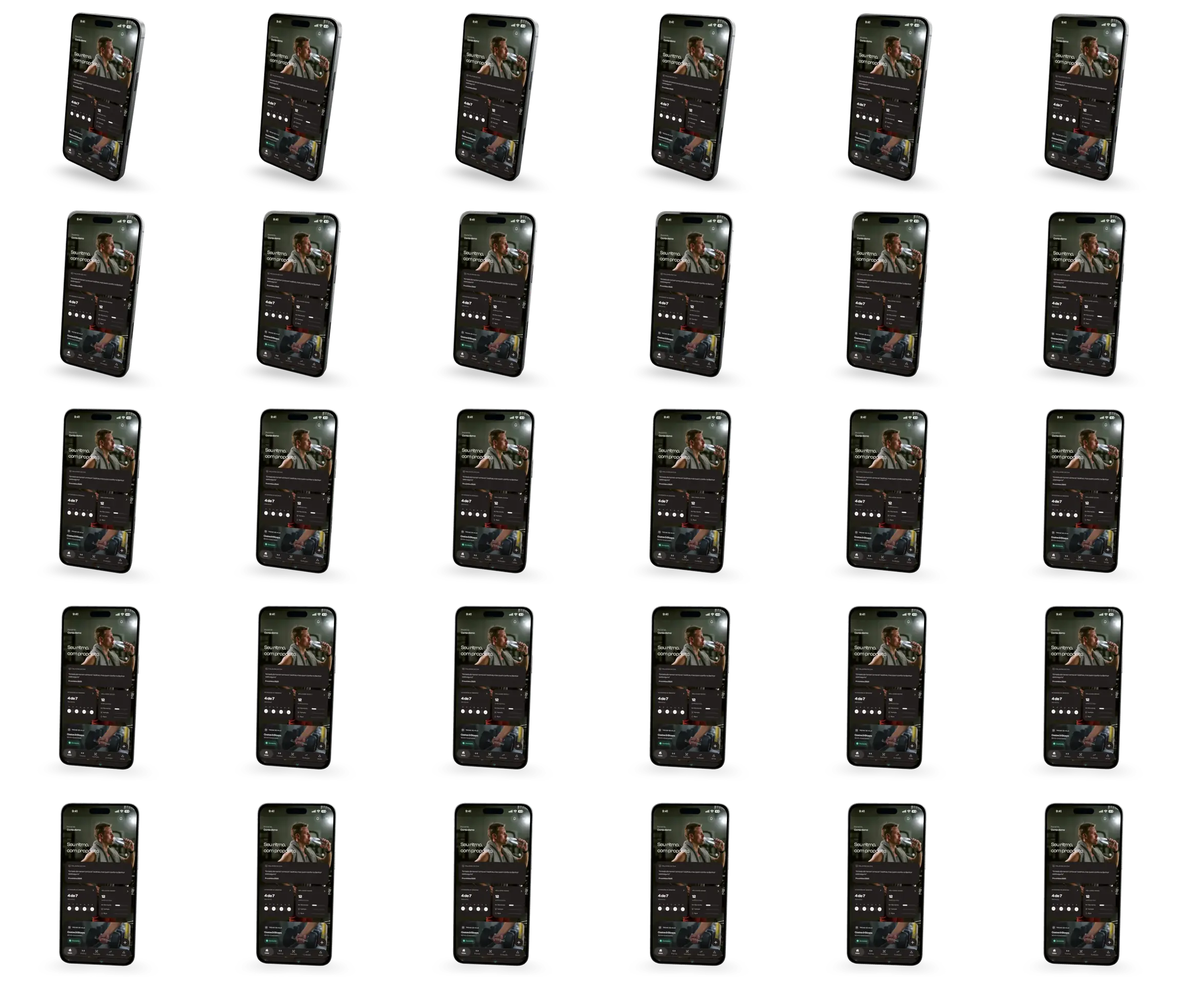
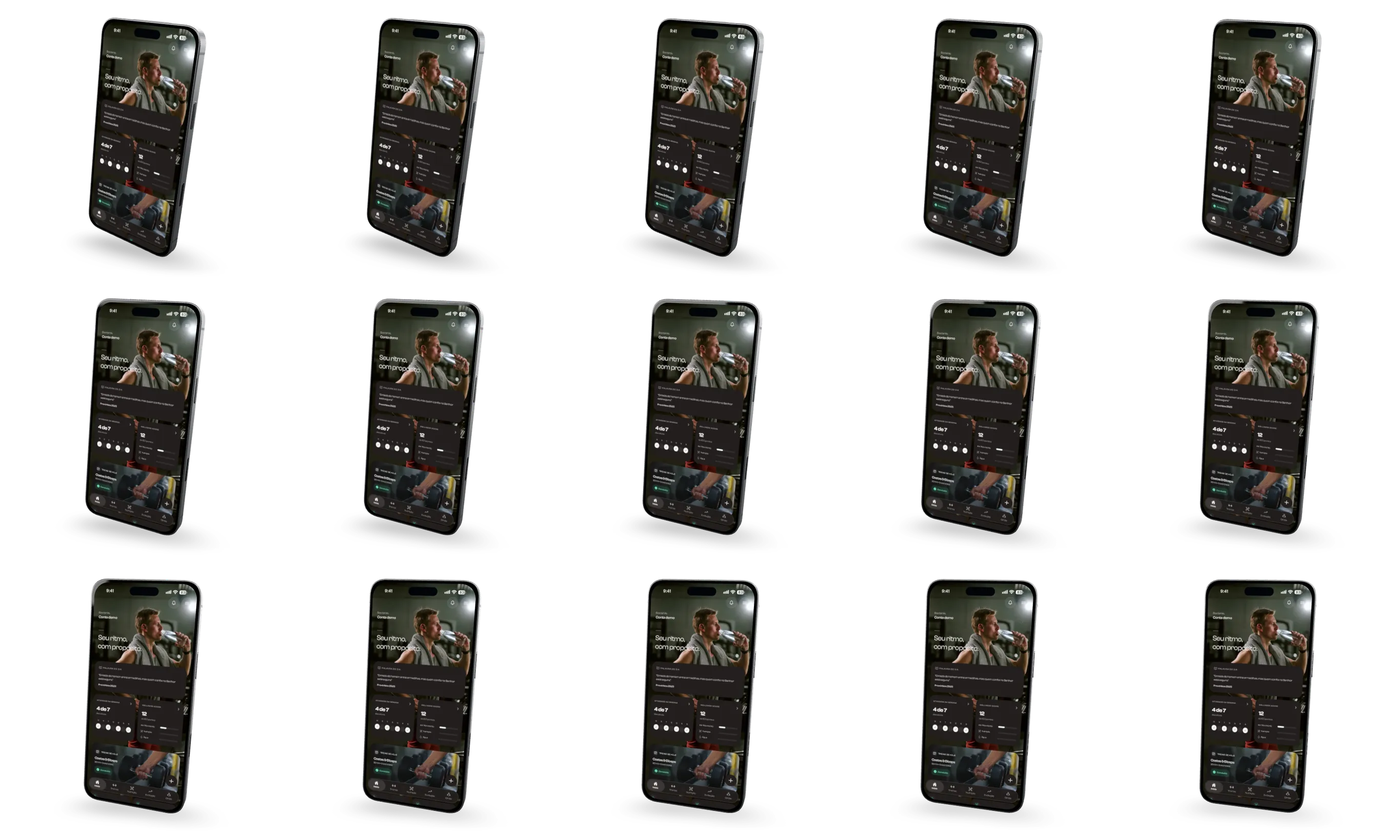
Sharpen the MOVVA opening and reduce startup transfers

diff --git a/site.css b/site.css
@@ -4,7 +4,7 @@
 .experience{position:relative}.stage{position:relative}.scene{position:relative;min-height:780px;padding:140px var(--gutter) 100px;display:flex;align-items:center;justify-content:space-between;gap:45px;isolation:isolate;overflow:clip}.copy{max-width:600px}.eyebrow{font-size:9px;font-weight:500;letter-spacing:.2em;line-height:1.5;margin:0 0 35px;display:flex;align-items:center;gap:13px}.eyebrow>span{width:25px;height:1px;background:currentColor;opacity:.7}h1,h2{font-weight:400;margin:0;letter-spacing:-.065em;line-height:.99}h1{font-size:clamp(64px,7.2vw,112px)}.scene h2{font-size:clamp(60px,6.8vw,100px)}.description{font-size:clamp(14px,1.12vw,17px);line-height:1.85;color:var(--muted);margin:34px 0 0;letter-spacing:-.03em}.text-link{display:inline-flex;align-items:center;justify-content:space-between;gap:38px;border-bottom:1px solid currentColor;font-size:12px;padding:13px 0 16px;margin-top:34px}.text-link>span{font-size:23px;transition:transform .2s}.text-link:hover>span{transform:translate(3px,-3px)}.small-thought{display:flex;align-items:center;gap:17px;margin-top:56px}.spark{font-size:35px;font-weight:300}.small-thought p{font-size:11px;line-height:1.65;color:var(--muted)}.static-shot{width:240px;border:8px solid #22261f;border-radius:34px;box-shadow:12px 22px 35px #25262024}.scene-training{background:#252b23;color:#f3efe5}.scene-training .description,.scene-training .micro-note{color:#c4c9bd}.scene-nutrition{background:#eee5d5}.scene-evolution{background:#e1e8da}.scene-circle{background:#e9e3d8}.centered{justify-content:center;text-align:center;min-height:550px}.centered .eyebrow{justify-content:center}.centered .copy{max-width:840px}.centered h2{font-size:clamp(62px,7vw,108px)}.pillars{display:flex;flex-wrap:wrap;gap:16px;margin-top:35px;font-size:12px;color:var(--muted)}.pillars span+span:before{content:'·';margin-right:16px}.modality-list{display:flex;flex-wrap:wrap;gap:12px 22px;max-width:430px;margin-top:30px;font-size:12px}.micro-note{font-size:9px;line-height:1.65;color:var(--muted);margin:28px 0 0}.nutrition-readout{max-width:325px;margin-top:35px}.nutrition-readout>div:first-child{display:flex;align-items:baseline;gap:14px}.nutrition-readout strong{font-size:46px;font-weight:400;letter-spacing:-.05em;font-variant-numeric:tabular-nums}.nutrition-readout span{font-size:11px;color:var(--muted)}.water-track{height:3px;background:#292e2620;margin-top:14px}.water-track i{display:block;height:100%;width:37%;background:#8c967d}.score-readout{display:flex;align-items:center;gap:23px;margin-top:28px}.score-ring{position:relative;width:102px;height:102px;flex:0 0 102px}.score-ring svg{position:absolute;inset:0;width:100%;transform:rotate(-90deg)}.score-ring circle{fill:none;stroke-width:3}.ring-base{stroke:#71836730}.ring-progress{stroke:#63745a;stroke-linecap:round;stroke-dasharray:289.026;stroke-dashoffset:138.73}.score-ring>div{position:absolute;inset:0;display:flex;align-items:baseline;justify-content:center;padding-top:28px;gap:2px}.score-ring strong{font-size:33px;line-height:1.25;font-weight:400;letter-spacing:-.06em;font-variant-numeric:tabular-nums}.score-ring small{font-size:10px}.score-caption{display:flex;flex-direction:column;gap:7px}.score-caption>strong{font-size:13px;font-weight:500}.score-caption>span{font-size:11px;color:var(--muted)}.score-caption>small{font-size:9px;color:var(--muted)}.circle-count{display:flex;gap:21px;align-items:center;margin-top:35px}.circle-count>span{font-size:58px;letter-spacing:-.05em;line-height:1}.circle-count>p{font-size:12px;line-height:1.65;color:var(--muted)}
 #world,.ambient,.halo,.ground-shadow,.ghost-word,.chapter-bar{display:none}
 /* Only activate the pinned presentation after a real WebGL scene is ready. */
-.enhanced .header{position:fixed;transition:color .35s}.enhanced .experience{height:820svh}.enhanced .stage{position:sticky;top:0;height:var(--svh);min-height:620px;overflow:hidden}.enhanced .ambient{display:block;position:absolute;inset:0;background:radial-gradient(ellipse at 82% 39%,#dcd4c055,transparent 48%);pointer-events:none}.enhanced .scene{position:absolute;inset:0;min-height:0;padding:0 var(--gutter);gap:0;display:flex;align-items:center;opacity:0;visibility:hidden;pointer-events:none;background:transparent;z-index:5;overflow:visible}.enhanced .scene .copy{pointer-events:none;width:46%;max-width:630px;padding-top:50px}.enhanced .scene a{pointer-events:auto}.enhanced .scene.right{justify-content:flex-end}.enhanced .scene-hero .copy{width:53%;max-width:750px}.enhanced .scene.right .copy{width:46%}.enhanced .scene-connected .copy{width:43%}.enhanced .static-shot{display:none}.enhanced #world{display:block;position:absolute;inset:0;width:100%;height:100%;z-index:3;pointer-events:none}.enhanced .scene.centered .copy{width:100%;max-width:920px;transform:translateY(-60px)}.enhanced .halo{display:block;position:absolute;top:48%;left:74%;width:min(66vw,1060px);aspect-ratio:1;transform:translate(-50%,-50%);z-index:1;pointer-events:none;opacity:.44}.halo i{position:absolute;inset:0;border:1px solid #74756128;border-radius:50%}.halo i:nth-child(2){inset:5%}.halo i:nth-child(3){inset:11%}.enhanced .ghost-word{display:block;position:absolute;bottom:-4vw;left:-2vw;right:0;font-size:32vw;font-weight:450;letter-spacing:-.09em;line-height:.8;color:#bcbca019;pointer-events:none;z-index:1}.enhanced .ground-shadow{display:block;position:absolute;top:85%;left:74%;width:31%;height:6%;transform:translate(-50%,-50%);background:radial-gradient(ellipse,#484b3833,transparent 67%);filter:blur(10px);pointer-events:none;z-index:2}.enhanced .chapter-bar{display:flex;justify-content:space-between;align-items:center;position:absolute;bottom:29px;left:var(--gutter);right:var(--gutter);z-index:10;font-size:9px;letter-spacing:.13em;gap:15px}.chapter-current{display:flex;align-items:center;gap:15px;min-width:235px}.chapter-current>span:first-child{font-size:13px;letter-spacing:0}.chapter-current i{height:1px;width:65px;background:currentColor;opacity:.5}.chapter-current>span:last-child{font-size:8px}.chapter-dots{display:flex;align-items:center;gap:4px}.chapter-dots a{width:32px;height:32px;display:flex;align-items:center;justify-content:center}.chapter-dots a:after{content:'';width:5px;height:5px;border-radius:50%;background:currentColor;opacity:.28}.chapter-dots a[aria-current]:after{opacity:1;transform:scale(1.3)}.scroll-label{display:flex;align-items:center;gap:22px;min-width:235px;justify-content:flex-end;font-size:8px}.scroll-label>span{font-size:23px;letter-spacing:0}.stage.dark{color:#f2eee4}.stage.dark .description,.stage.dark .micro-note{color:#c4c9bd}.stage.dark .halo{opacity:.08}.stage.dark .ghost-word{color:#ebe7d912}.stage.dark .eyebrow{color:#f2eee4}
+.enhanced .header{position:fixed;transition:color .35s}.enhanced .experience{height:820svh}.enhanced .stage{position:sticky;top:0;height:var(--svh);min-height:620px;overflow:hidden}.enhanced .ambient{display:block;position:absolute;inset:0;background:radial-gradient(ellipse at 82% 39%,#dcd4c055,transparent 48%);pointer-events:none}.enhanced .scene{position:absolute;inset:0;min-height:0;padding:0 var(--gutter);gap:0;display:flex;align-items:center;opacity:0;visibility:hidden;pointer-events:none;background:transparent;z-index:5;overflow:visible}.enhanced .scene .copy{pointer-events:none;width:46%;max-width:630px;padding-top:50px}.enhanced .scene a{pointer-events:auto}.enhanced .scene.right{justify-content:flex-end}.enhanced .scene-hero .copy{width:53%;max-width:750px}.enhanced .scene.right .copy{width:46%}.enhanced .scene-connected .copy{width:43%}.enhanced .static-shot{display:none}.enhanced #world{display:block;position:absolute;inset:0;width:100%;height:100%;z-index:3;pointer-events:none}.enhanced .scene.centered .copy{width:100%;max-width:920px;transform:translateY(-60px)}.enhanced .halo{display:block;position:absolute;top:48%;left:74%;width:min(66vw,1060px);aspect-ratio:1;transform:translate(-50%,-50%);z-index:1;pointer-events:none;opacity:.44}.halo i{position:absolute;inset:0;border:1px solid #74756128;border-radius:50%}.halo i:nth-child(2){inset:5%}.halo i:nth-child(3){inset:11%}.enhanced .ghost-word{display:block;position:absolute;bottom:-4vw;left:-2vw;right:0;font-size:32vw;font-weight:450;letter-spacing:-.09em;line-height:.8;color:#bcbca019;pointer-events:none;z-index:1}.enhanced .ground-shadow{display:block;position:absolute;top:85%;left:74%;width:31%;height:6%;transform:translate(-50%,-50%);background:radial-gradient(ellipse,#484b3833,transparent 67%);filter:blur(10px);pointer-events:none;z-index:2}.enhanced .chapter-bar{display:flex;justify-content:space-between;align-items:center;position:absolute;bottom:29px;left:var(--gutter);right:var(--gutter);z-index:10;font-size:9px;letter-spacing:.13em;gap:15px}.chapter-current{display:flex;align-items:center;gap:15px;min-width:235px}.chapter-current>span:first-child{font-size:13px;letter-spacing:0}.chapter-current i{height:1px;width:65px;background:currentColor;opacity:.5}.chapter-current>span:last-child{font-size:8px}.chapter-dots{display:flex;align-items:center;gap:4px}.chapter-dots a{width:32px;height:32px;display:flex;align-items:center;justify-content:center}.chapter-dots a:after{content:'';width:5px;height:5px;border-radius:50%;background:currentColor;opacity:.58}.chapter-dots a[aria-current]:after{opacity:1;transform:scale(1.3)}.scroll-label{display:flex;align-items:center;gap:22px;min-width:235px;justify-content:flex-end;font-size:8px}.scroll-label>span{font-size:23px;letter-spacing:0}.stage.dark{color:#f2eee4}.stage.dark .description,.stage.dark .micro-note{color:#c4c9bd}.stage.dark .halo{opacity:.08}.stage.dark .ghost-word{color:#ebe7d912}.stage.dark .eyebrow{color:#f2eee4}
 .overview{padding:125px var(--gutter) 115px;background:#faf8f2;position:relative;z-index:6}.overview-heading{display:grid;grid-template-columns:1fr 1fr;gap:15px 60px;align-items:end}.overview-heading>.eyebrow{grid-column:1/-1;margin-bottom:25px}.overview h2{font-size:clamp(60px,6vw,96px)}.overview-heading>p:last-child{max-width:410px;font-size:16px;line-height:1.8;color:var(--muted);justify-self:end}.overview-grid{display:grid;grid-template-columns:repeat(4,1fr);gap:30px;margin-top:80px}.overview-grid article{border-top:1px solid #c4c7bb;padding-top:21px}.overview-grid article>span{font-family:var(--serif);font-style:italic;font-size:26px;color:#858b7b}.overview h3{font-size:22px;letter-spacing:-.04em;font-weight:400;margin:25px 0 12px}.overview-grid p{font-size:13px;line-height:1.8;color:var(--muted);max-width:250px;min-height:76px}.overview-grid a{display:flex;align-items:center;justify-content:space-between;font-size:11px;padding-top:15px}.overview-grid a>span{font-size:19px}.launch{text-align:center;padding:125px var(--gutter) 90px;background:radial-gradient(ellipse at 50% 110%,#d9d1bb,transparent 60%),#ebe7db;position:relative;z-index:6}.launch .eyebrow{justify-content:center;margin-bottom:34px}.launch h2{font-size:clamp(70px,9vw,140px)}.launch-actions{display:flex;justify-content:center;align-items:center;gap:27px;margin-top:42px}.launch-status{font-size:12px;display:flex;align-items:center;gap:10px}.launch-status i{width:6px;height:6px;background:#7d8a6c;border-radius:50%}.dark-button{display:flex;align-items:center;gap:28px;background:var(--ink);color:#f8f5ec;padding:18px 23px;border-radius:40px;font-size:12px}.dark-button>span{font-size:19px}.launch-note{font-size:10px;line-height:1.8;color:var(--muted);margin-top:30px}.replay{display:inline-flex;gap:14px;margin-top:35px;font-size:11px}footer{display:flex;align-items:center;justify-content:space-between;gap:30px;padding:38px var(--gutter);background:#f4f1e8;border-top:1px solid #cccec1;position:relative;z-index:6}footer>div{display:flex;gap:24px;font-size:11px}footer>small{font-size:9px;color:var(--muted)}footer .brand img{width:135px}footer .brand>span{font-size:6px}.legal{max-width:780px;min-height:75svh;margin:auto;padding:165px 25px 100px}.legal h1{font-size:60px;margin:20px 0 38px}.legal h2{font-size:23px;letter-spacing:-.025em;margin:30px 0 14px}.legal p{font-size:15px;line-height:1.9;color:var(--muted)}.legal a{text-decoration:underline;text-underline-offset:4px}
 @media(min-width:1700px){.enhanced .scene .copy{padding-top:20px}.small-thought{margin-top:65px}}
 @media(max-width:1100px) and (min-width:761px){.header nav{gap:20px}.brand>span{display:none}.enhanced .scene-hero .copy{width:55%}h1{font-size:76px}.scene h2{font-size:65px}.description{font-size:14px}.small-thought{margin-top:30px}.eyebrow{margin-bottom:27px}.overview-grid{gap:20px}.chapter-current,.scroll-label{min-width:190px}.chapter-dots a{width:25px}.score-readout{gap:15px}}

diff --git a/index.html b/index.html
@@ -67,8 +67,8 @@
 <div class="ground-shadow" aria-hidden="true"></div>
 <div class="hero-device-slot" aria-hidden="true"></div>
 <div class="hero-surface" aria-hidden="true">
-  <img class="hero-react-poster" src="/assets/react-phone-poster.webp" width="672" height="672" alt="" fetchpriority="high">
-  <img class="hero-react-front" src="/assets/react-phone-poster-front.webp" width="672" height="672" alt="" fetchpriority="low">
+  <img class="hero-react-poster" src="/assets/react-phone-poster.webp" width="1344" height="1344" alt="" fetchpriority="high">
+  <img class="hero-react-front" src="/assets/react-phone-poster-front.webp" width="1344" height="1344" alt="" fetchpriority="low">
   <canvas id="react-phone-frames" class="hero-react-frames" width="672" height="672"></canvas>
   <div id="react-phone" class="hero-react-phone"></div>
 </div>
@@ -94,10 +94,10 @@
   </div>
   <div class="css3d-front"><div class="css3d-display">
     <img src="/assets/home.webp" alt="" class="css3d-screen css3d-screen-home" draggable="false" loading="eager" decoding="async">
-    <img src="/assets/training.webp" alt="" class="css3d-screen css3d-screen-training" fetchpriority="low" draggable="false" loading="eager" decoding="async">
-    <img src="/assets/nutrition.webp" alt="" class="css3d-screen css3d-screen-nutrition" fetchpriority="low" draggable="false" loading="eager" decoding="async">
-    <img src="/assets/evolution.webp" alt="" class="css3d-screen css3d-screen-evolution" fetchpriority="low" draggable="false" loading="eager" decoding="async">
-    <img src="/assets/circle.webp" alt="" class="css3d-screen css3d-screen-circle" fetchpriority="low" draggable="false" loading="eager" decoding="async">
+    <img data-src="/assets/training.webp" alt="" class="css3d-screen css3d-screen-training" draggable="false" decoding="async">
+    <img data-src="/assets/nutrition.webp" alt="" class="css3d-screen css3d-screen-nutrition" draggable="false" decoding="async">
+    <img data-src="/assets/evolution.webp" alt="" class="css3d-screen css3d-screen-evolution" draggable="false" decoding="async">
+    <img data-src="/assets/circle.webp" alt="" class="css3d-screen css3d-screen-circle" draggable="false" decoding="async">
    </div><div class="css3d-island"></div><div class="css3d-glint"></div></div>
 
  </div>
@@ -132,7 +132,7 @@
 <div class="scene scene-evolution" id="evolution" data-chapter="4"><div class="copy"><p class="eyebrow"><span></span> EVOLUÇÃO</p><h2><span class="evo-line">Entender</span> <span class="evo-line">também é</span> <em>evoluir.</em></h2><p class="description">Reveja as atividades da semana e acompanhe seu progresso ao longo do tempo.</p><div class="evo-metrics"><p class="evo-status" aria-hidden="true">SUA SEMANA. MAIS CONTEXTO.</p><div class="evo-dashboard" aria-hidden="true"><div class="score-readout"><div class="score-ring"><svg viewBox="0 0 110 110" aria-hidden="true"><circle cx="55" cy="55" r="46" class="ring-base"/><circle cx="55" cy="55" r="46" class="ring-progress" id="score-arc"/></svg><div><strong id="score-number">52</strong><small>/100</small></div></div><div class="score-caption"><strong>Wellness Score</strong><small>Score parcial</small></div></div><div class="activity-story" aria-hidden="true"><div><span>Sua semana</span><strong><b id="activity-minutes">425</b> min</strong></div><svg viewBox="0 0 250 106"><path class="activity-grid" d="M4 88H246 M4 49H246 M4 10H246" fill="none"/><rect class="activity-bar" data-minutes="56" x="15" y="62.00" width="8" height="26.00" rx="4"/><rect class="activity-bar" data-minutes="45" x="50" y="67.11" width="8" height="20.89" rx="4"/><rect class="activity-bar" data-minutes="66" x="85" y="57.36" width="8" height="30.64" rx="4"/><rect class="activity-bar" data-minutes="45" x="120" y="67.11" width="8" height="20.89" rx="4"/><rect class="activity-bar" data-minutes="0" x="155" y="88.00" width="8" height="0.00" rx="4"/><rect class="activity-bar" data-minutes="45" x="190" y="67.11" width="8" height="20.89" rx="4"/><rect class="activity-bar" data-minutes="168" x="225" y="10.00" width="8" height="78.00" rx="4"/><text x="19" y="104">D</text><text x="54" y="104">S</text><text x="89" y="104">T</text><text x="124" y="104">Q</text><text x="159" y="104">Q</text><text x="194" y="104">S</text><text x="229" y="104">S</text></svg></div></div><p class="evo-source">Exemplo: Wellness Score parcial de 52 de 100; 425 minutos em 6 dias ativos. Domingo 56, segunda 45, terça 66, quarta 45, quinta 0, sexta 45 e sábado 168 minutos.</p></div><p class="micro-note">Exemplo com dados ilustrativos.</p></div><img class="static-shot" src="/assets/evolution.webp" width="589" height="1280" loading="lazy" alt="Tela de Evolução do MOVVA com o histórico de atividades e o gráfico de balanço calórico."></div>
 <div class="scene scene-circle right" id="circle" data-chapter="5"><div class="copy"><p class="eyebrow"><span></span> CIRCLE</p><h2><span>Seu caminho.</span><em>Boa companhia.</em></h2><p class="description">Crie um grupo com pessoas próximas e compartilhe check-ins e atividades.</p><div class="circle-values" aria-hidden="true"><span>Compartilhar</span><span>Incentivar</span><span>Continuar</span></div><div class="circle-bond"><div class="circle-count"><span>2—5</span><p>pessoas.<br>Um Circle.</p></div><p>Ritmos diferentes.<br>Mais consistência, juntos.</p></div></div><img class="static-shot" src="/assets/circle.webp" width="589" height="1280" loading="lazy" alt="Tela do Circle do MOVVA com sequência, check-in e atividades da semana."></div>
 <div class="scene scene-finale centered" id="rhythm" data-chapter="6"><div class="copy"><p class="eyebrow">MOVVA WELLNESS</p><h2><span>A vida acontece.</span>A MOVVA <em>acompanha.</em></h2><a class="text-link" href="#launch">Saiba do lançamento <span aria-hidden="true"><svg width="18" height="18" viewBox="0 0 24 24" fill="none" stroke="currentColor" stroke-width="1.7" stroke-linecap="round" stroke-linejoin="round"><path d="M6 18 18 6M8 6h10v10"/></svg></span></a><p class="closing-status">Em breve para iPhone</p></div></div>
-<div class="chapter-bar" aria-label="Capítulos da experiência"><div class="chapter-current"><span id="chapter-number">01</span><i></i><span id="chapter-name">SEU RITMO</span></div><div class="chapter-dots"><a href="#start" data-jump="0" aria-label="Seu ritmo" aria-current="step"></a><a href="#connected" data-jump="0.18" aria-label="Tudo conectado"></a><a href="#training" data-jump="0.33" aria-label="Treinos"></a><a href="#nutrition" data-jump="0.458" aria-label="Nutrição"></a><a href="#evolution" data-jump="0.66" aria-label="Evolução"></a><a href="#circle" data-jump="0.83" aria-label="Circle"></a><a href="#rhythm" data-jump="0.97" aria-label="MOVVA Wellness"></a></div><span class="scroll-label">ROLE PARA DESCOBRIR <span aria-hidden="true">↓</span></span></div>
+<nav class="chapter-bar" aria-label="Capítulos da experiência"><div class="chapter-current"><span id="chapter-number">01</span><i></i><span id="chapter-name">SEU RITMO</span></div><div class="chapter-dots"><a href="#start" data-jump="0" aria-label="Seu ritmo" aria-current="step"></a><a href="#connected" data-jump="0.18" aria-label="Tudo conectado"></a><a href="#training" data-jump="0.33" aria-label="Treinos"></a><a href="#nutrition" data-jump="0.458" aria-label="Nutrição"></a><a href="#evolution" data-jump="0.66" aria-label="Evolução"></a><a href="#circle" data-jump="0.83" aria-label="Circle"></a><a href="#rhythm" data-jump="0.97" aria-label="MOVVA Wellness"></a></div><span class="scroll-label">ROLE PARA DESCOBRIR <span aria-hidden="true">↓</span></span></nav>
 </div></div>
 <section class="overview" id="overview" aria-labelledby="overview-title" tabindex="-1"><div class="overview-heading"><h2 id="overview-title">Sua rotina,<br><em>mais conectada.</em></h2><p>Planeje seu próximo treino, acompanhe o que comeu e veja como tem evoluído. Você pode fazer isso no seu ritmo e com quem quiser por perto.</p></div><div class="overview-grid"><article><h3>Movimento</h3><p>Treinos, programas e histórico para diferentes maneiras de se mover.</p><a href="#training" data-jump="0.33">Ver treinos <span aria-hidden="true"><svg width="18" height="18" viewBox="0 0 24 24" fill="none" stroke="currentColor" stroke-width="1.7" stroke-linecap="round" stroke-linejoin="round"><path d="M6 18 18 6M8 6h10v10"/></svg></span></a></article><article><h3>Nutrição</h3><p>Refeições e hidratação reunidas para acompanhar a sua rotina.</p><a href="#nutrition" data-jump="0.458">Ver nutrição <span aria-hidden="true"><svg width="18" height="18" viewBox="0 0 24 24" fill="none" stroke="currentColor" stroke-width="1.7" stroke-linecap="round" stroke-linejoin="round"><path d="M6 18 18 6M8 6h10v10"/></svg></span></a></article><article><h3>Evolução</h3><p>Atividades, corpo e desempenho com uma visão do que muda ao longo do tempo.</p><a href="#evolution" data-jump="0.66">Ver evolução <span aria-hidden="true"><svg width="18" height="18" viewBox="0 0 24 24" fill="none" stroke="currentColor" stroke-width="1.7" stroke-linecap="round" stroke-linejoin="round"><path d="M6 18 18 6M8 6h10v10"/></svg></span></a></article><article><h3>Circle</h3><p>Pequenos grupos. Metas compartilhadas. Mais incentivo para continuar.</p><a href="#circle" data-jump="0.83">Ver Circle <span aria-hidden="true"><svg width="18" height="18" viewBox="0 0 24 24" fill="none" stroke="currentColor" stroke-width="1.7" stroke-linecap="round" stroke-linejoin="round"><path d="M6 18 18 6M8 6h10v10"/></svg></span></a></article></div></section>
 <section class="launch" id="launch" aria-labelledby="launch-title" tabindex="-1">

diff --git a/phone-frames.js b/phone-frames.js
@@ -3,61 +3,97 @@ import { MOBILE_PHONE_QUERY, PHONE_MOTION_END, phoneTurnAt } from './phone-motio
 const canvas = document.querySelector('#react-phone-frames');
 const live = document.querySelector('#react-phone');
 const context = canvas?.getContext('2d');
+const query = new URLSearchParams(location.search);
 
-if (context && live) {
+if (context && live && query.get('visual') !== 'estatico') {
   const reduced = matchMedia('(prefers-reduced-motion: reduce)');
   const mobile = matchMedia(MOBILE_PHONE_QUERY).matches;
-  const atlasSource = mobile ? '/assets/react-phone-frames-mobile.webp' : '/assets/react-phone-frames.webp';
-  if (mobile) canvas.width = canvas.height = 384;
+  const paths = mobile
+    ? ['/assets/react-phone-frames-mobile.webp', '/assets/react-phone-frames-mobile-end.webp']
+    : ['/assets/react-phone-frames.webp'];
   const frameCount = 30;
-  let sheet;
-  let columns = 0;
+  const framesPerSheet = frameCount / paths.length;
+  const tileSize = mobile ? 544 : 672;
+  const outputSize = mobile ? 1088 : 1344;
+  const first = canvas.parentElement.querySelector('.hero-react-poster');
+  const last = canvas.parentElement.querySelector('.hero-react-front');
+  const sheets = [];
+  let useFrames = mobile || query.get('renderer') === 'webgl';
+  let fallbackTimer;
   let position = 0;
-  let displayed = -1;
+  let displayedIndex = -1;
+  let displayedImage;
+
+  function startFallback() {
+    useFrames = true;
+    clearTimeout(fallbackTimer);
+    render(position);
+  }
+
+  function loadSheet(page) {
+    if (sheets[page]) return sheets[page];
+    const image = new Image();
+    const sheet = { image, columns: 0 };
+    sheets[page] = sheet;
+    image.fetchPriority = mobile && page === 0 ? 'high' : 'low';
+    image.src = paths[page];
+    image.decode().then(() => {
+      if (sheets[page] !== sheet) return;
+      const across = image.naturalWidth / tileSize;
+      const down = image.naturalHeight / tileSize;
+      if (!Number.isInteger(across) || !Number.isInteger(down) || across * down < framesPerSheet) return;
+      sheet.columns = across;
+      render(position);
+    }).catch(() => {
+      // Keep the poster or last usable frame on an unavailable sheet.
+    });
+    return sheet;
+  }
 
   function render(progress) {
     position = progress;
     const liveReady = !mobile && live.classList.contains('is-ready');
     if (liveReady) {
-      sheet = undefined;
-      columns = 0;
+      clearTimeout(fallbackTimer);
+      useFrames = true;
+      sheets.length = 0;
+      displayedImage = undefined;
     }
     if (reduced.matches || liveReady) {
       canvas.classList.remove('is-frame-ready');
       return;
     }
+    if (!sheets.length && progress > PHONE_MOTION_END + .021) return;
 
-    // Keep a loaded handset through the fade even if a fast swipe advances the scroll target.
-    if (!sheet && progress > PHONE_MOTION_END + .021) return;
-
-    const turn = phoneTurnAt(progress, mobile);
-
-    if (!sheet) {
-      const image = new Image();
-      sheet = image;
-      image.fetchPriority = mobile ? 'high' : 'low';
-      image.src = atlasSource;
-      image.decode().then(() => {
-        if (sheet !== image) return;
-        const tilesAcross = image.naturalWidth / canvas.width;
-        const tilesDown = image.naturalHeight / canvas.height;
-        if (!Number.isInteger(tilesAcross) || !Number.isInteger(tilesDown) || tilesAcross * tilesDown < frameCount) return;
-        columns = tilesAcross;
-        render(position);
-      }).catch(() => {
-        // Keep the opening poster if the frame sheet cannot be decoded.
-      });
+    // Give the desktop model a chance to start before downloading its fallback.
+    if (!useFrames) {
+      if (fallbackTimer === undefined) fallbackTimer = setTimeout(startFallback, 1800);
+      return;
     }
-    if (!columns) return;
 
-    const index = Math.round(turn * (frameCount - 1));
-    if (index !== displayed) {
-      const { width, height } = canvas;
-      const x = (index % columns) * width;
-      const y = Math.floor(index / columns) * height;
-      context.clearRect(0, 0, width, height);
-      context.drawImage(sheet, x, y, width, height, 0, 0, width, height);
-      displayed = index;
+    const index = Math.round(phoneTurnAt(progress, mobile) * (frameCount - 1));
+    const page = Math.floor(index / framesPerSheet);
+    const sheet = loadSheet(page);
+    if (mobile && page === 0 && index >= 8) loadSheet(1);
+    if (!sheet.columns) return;
+
+    // Reuse the full-resolution stills at the two poses where the phone rests.
+    const poster = index === 0 ? first : index === frameCount - 1 ? last : null;
+    const image = poster?.complete && poster.naturalWidth ? poster : sheet.image;
+    if (index !== displayedIndex || image !== displayedImage) {
+      if (canvas.width !== outputSize) canvas.width = canvas.height = outputSize;
+      context.clearRect(0, 0, outputSize, outputSize);
+      context.imageSmoothingQuality = 'high';
+      if (image === poster) {
+        context.drawImage(image, 0, 0, outputSize, outputSize);
+      } else {
+        const offset = index % framesPerSheet;
+        const x = (offset % sheet.columns) * tileSize;
+        const y = Math.floor(offset / sheet.columns) * tileSize;
+        context.drawImage(image, x, y, tileSize, tileSize, 0, 0, outputSize, outputSize);
+      }
+      displayedIndex = index;
+      displayedImage = image;
       canvas.dataset.frame = String(index);
     }
     canvas.classList.add('is-frame-ready');
@@ -67,6 +103,8 @@ if (context && live) {
     attributes: true,
     attributeFilter: ['class']
   });
+  window.addEventListener('movva:phone-fallback', startFallback);
+  for (const poster of [first, last]) poster?.addEventListener('load', () => render(position));
   reduced.addEventListener('change', () => render(position));
   window.MOVVA_PHONE_FRAMES = { render };
   window.dispatchEvent(new Event('movva:hero-layout'));

diff --git a/experience.js b/experience.js
@@ -23,7 +23,7 @@ const scoreNumber=$('#score-number'),scoreArc=$('#score-arc'),waterNumber=$('#wa
 const activityBars=$$('.activity-bar').map(element=>({element,height:Number(element.dataset.minutes)/168*78}));
 const formatWater=new Intl.NumberFormat('pt-BR',{minimumFractionDigits:1,maximumFractionDigits:1});
 const sceneCache=scenes.map(()=>({opacity:null,visibility:null,inert:null,transform:null}));
-let lastScene=-1,lastBackdrop=null;
+let lastScene=-1,lastBackdrop=null,chapterFocus=null;
 let enabled=false,ready=false,disposed=false,raf=0,lastTime=0,position=0,target=0,width=0,height=0,mobile=false,domDevice=false;
 let pointer=[0,0],pointerTarget=[0,0],idle=0,gl=null;
  const PRO_MAX_REFERENCE_ASPECT=78/163.4;
@@ -255,6 +255,18 @@ function renderCounters(p){
   activityBars.forEach(({element,height},i)=>setActivityBar(element,height*range(p,.64+i*.006,.728+i*.002)));
  }
 }
+function focusChapter(active,p){
+ if(!chapterFocus||Math.abs(chapterFocus.progress-p)>=.001)return;
+ const {chapter,link}=chapterFocus;
+ const heading=chapter.querySelector('h1,h2');
+ if(!heading||scenes[active]!==chapter||![document.body,link].includes(document.activeElement)){
+  chapterFocus=null;
+  return;
+ }
+ heading.tabIndex=-1;
+ heading.focus({preventScroll:true});
+ if(document.activeElement===heading)chapterFocus=null;
+}
 function render(p){
  if(!domDevice&&(!gl||gl.isContextLost()))return;
  const intro=window.MOVVA_INTRO;
@@ -345,6 +357,7 @@ function tick(t){raf=0;if(!enabled||document.hidden)return;const dt=t-(lastTime|
    try{render(position)}catch(fallbackErr){console.warn('MOVVA compatible renderer also failed.',fallbackErr);ready=false;applyMode()}
   }else{ready=false;applyMode()}
  }
+ focusChapter(lastScene,position);
  const changing=Math.abs(position-target)>.000006||Math.abs(pointer[0]-pointerTarget[0])>.0005||Math.abs(pointer[1]-pointerTarget[1])>.0005;
  if(changing){idle=0;requestTick();}else if(idle++<2)requestTick();
 }
@@ -377,6 +390,7 @@ function applyMode(){
 }
 function jump(p,animated=true){if(!enabled)return;const top=experience.offsetTop+p*(experience.offsetHeight-stage.clientHeight);scrollTo({top,behavior:animated?'smooth':'auto'});target=p;requestTick();}
 function syncChapterHash(){
+ if(chapterFocus&&chapterFocus.link.hash!==location.hash)chapterFocus=null;
  const progress=chapterProgress.get(location.hash);
  if(enabled&&progress!==undefined)jump(progress,false);
 }
@@ -387,7 +401,9 @@ document.addEventListener('click',event=>{
  if(progress===undefined||link.target||link.hasAttribute('download'))return;
  event.preventDefault();
  if(location.hash!==link.hash)history.pushState(null,'',link.hash);
- jump(progress,!media.matches);
+ const chapter=event.detail===0?document.getElementById(link.hash.slice(1)):null;
+ chapterFocus=chapter?{chapter,link,progress}:null;
+ jump(progress,!chapter&&!media.matches);
 });
 addEventListener('hashchange',()=>requestAnimationFrame(syncChapterHash));
 // Browsers finish positioning native fragment targets after loading the page.

diff --git a/support/index.html b/support/index.html
@@ -1,1 +1,1 @@
-<!doctype html><html lang="pt-BR"><head><meta charset="utf-8"><meta name="viewport" content="width=device-width,initial-scale=1"><meta name="robots" content="noindex,nofollow"><title>Suporte — MOVVA Wellness</title><link rel="stylesheet" href="/site.css"><link rel="icon" href="/assets/movva.svg"></head><body><header class="header"><a class="brand" href="/"><img src="/assets/movva.svg" width="174" height="24" alt="MOVVA"><span>WELLNESS</span></a><a class="text-link" href="/">Voltar à MOVVA ↗</a></header><main class="legal"><p class="eyebrow">MOVVA WELLNESS · SUPORTE</p><h1>Estamos por aqui.</h1><p>Para falar sobre a MOVVA Wellness, dúvidas, problemas de acesso ou solicitações relacionadas à sua conta, escreva para <a href="mailto:suporte@movvawellness.com.br">suporte@movvawellness.com.br</a>.</p><p>Ao relatar um problema, informe o modelo do aparelho, a versão do aplicativo e o que aconteceu. Não envie senhas, códigos de autenticação ou documentos sensíveis por este site.</p><h2>Sobre esta prévia</h2><p>Este endereço apresenta o conceito do site da MOVVA. O aplicativo iOS está em preparação; o link oficial da App Store será incluído quando estiver disponível.</p></main><footer><a href="/">MOVVA Wellness</a><div><a href="/privacy/">Privacidade</a><a href="/terms/">Termos</a><a href="/support/">Suporte</a></div></footer></body></html>
+<!doctype html><html lang="pt-BR"><head><meta charset="utf-8"><meta name="viewport" content="width=device-width,initial-scale=1"><meta name="robots" content="noindex,nofollow"><title>Suporte — MOVVA Wellness</title><link rel="stylesheet" href="/site.css"><link rel="icon" href="/assets/movva.svg"></head><body><header class="header"><a class="brand" href="/"><img src="/assets/movva.svg" width="174" height="24" alt="MOVVA"><span>WELLNESS</span></a><a class="text-link" href="/">Voltar à MOVVA ↗</a></header><main class="legal"><p class="eyebrow">MOVVA WELLNESS · SUPORTE</p><h1>Estamos por aqui.</h1><p>Para falar sobre a MOVVA Wellness, dúvidas, problemas de acesso ou solicitações relacionadas à sua conta, escreva para <a href="mailto:suporte@movvawellness.com.br">suporte@movvawellness.com.br</a>.</p><p>Ao relatar um problema, informe o modelo do aparelho, a versão do aplicativo e o que aconteceu. Não envie senhas, códigos de autenticação ou documentos sensíveis por este site.</p><h2>Lançamento para iPhone</h2><p>A MOVVA está em preparação para iPhone. Quando o aplicativo estiver disponível, o link oficial da App Store será publicado neste site.</p></main><footer><a href="/">MOVVA Wellness</a><div><a href="/privacy/">Privacidade</a><a href="/terms/">Termos</a><a href="/support/">Suporte</a></div></footer></body></html>

diff --git a/mobile-phone.js b/mobile-phone.js
@@ -50,6 +50,30 @@ function poseAt(p){
  );
 }
 const names=['home','training','nutrition','evolution','circle'];
+const nextScreenPrep=[.220,.379,.539,.714];
+const decodedScreens=new Set([0]);
+function prepareScreen(index,priority){
+ const image=frames[index];
+ if(!image?.dataset.src||image.hasAttribute('src'))return;
+ image.fetchPriority=priority;
+ image.src=image.dataset.src;
+ image.decode().then(()=>{
+  decodedScreens.add(index);
+  window.dispatchEvent(new Event('movva:hero-layout'));
+ }).catch(()=>{}); // Keep the current screen if the next capture cannot be decoded.
+}
+function renderScreen(p,index,blend){
+ const target=Math.min(frames.length-1,index+(blend>=.5?1:0));
+ prepareScreen(target,'auto');
+ // Prime only the next capture as the visitor approaches the transition.
+ if(p>=nextScreenPrep[target])prepareScreen(target+1,'low');
+ const selected=decodedScreens.has(target)?target:Math.max(0,last.screen);
+ if(selected===last.screen)return;
+ frames.forEach((image,i)=>{image.style.display=i===selected?'block':'none';image.style.opacity='1';});
+ rig.dataset.screen=names[selected];
+ last.screen=selected;
+ metrics.screenWrites++;
+}
 // Chapter switches are discrete accessibility states; the physical camera is
 // not. Positions must be sampled from continuous scroll progress alone.
 const desktopHeroX=.71;
@@ -192,11 +216,7 @@ function render(p,active,ix,blend){
  }
  }
  window.MOVVA_SHELL?.setPose(safeRy,rx,rz);
- const selected=Math.min(frames.length-1,ix+(blend>=.5?1:0));
- if(selected!==last.screen){
-  frames.forEach((el,i)=>{el.style.display=i===selected?'block':'none';el.style.opacity='1';});
-  last.screen=selected;metrics.screenWrites++;
- }
+ renderScreen(p,ix,blend);
  const degrees=((-safeRy%360)+360)%360;
  const rear=degrees>92&&degrees<268;
  const faceOn=active>=2&&(degrees<45||degrees>315);
@@ -211,7 +231,6 @@ function render(p,active,ix,blend){
  }
  const opacity=mobile&&active!==0&&h<135?String(clamp((h-100)/35)):'1';
  if(opacity!==last.opacity){rig.style.opacity=opacity;last.opacity=opacity;}
- if(last.screen===selected&&rig.dataset.screen!==names[selected])rig.dataset.screen=names[selected]||'home';
  if(active!==last.chapter){rig.dataset.chapter=String(active);last.chapter=active;metrics.chapterWrites++;}
 }
 // Project a point in the screenshot (0-1 UV) through the actual CSS3D

diff --git a/react-phone.jsx b/react-phone.jsx
@@ -10,7 +10,7 @@ import { PHONE_MOTION_END, PHONE_TURN_END, phonePoseAt, readPhoneProgress } from
 const screenUrl = '/assets/home.webp';
 const toRadians = Math.PI / 180;
 
-function mountScreenTexture(model, image, cutout) {
+function mountScreenTexture(model, image, cutout, anisotropy) {
   let panel;
   model.traverse(object => {
     // The pinned mockup draws its display cutout using a rounded shader mesh.
@@ -59,6 +59,7 @@ function mountScreenTexture(model, image, cutout) {
 
   const texture = new CanvasTexture(surface);
   texture.colorSpace = SRGBColorSpace;
+  texture.anisotropy = Math.max(1, Math.min(8, anisotropy));
   const material = new MeshBasicMaterial({ map: texture, toneMapped: false });
   panel.geometry = geometry;
   panel.material = material;
@@ -136,7 +137,9 @@ function OpeningPhone({ mount, experience, stage }) {
       if (!disposeScreen) {
         const cutout = mount.querySelector('[data-mockup-cutout]');
         if (!cutout) return;
-        disposeScreen = mountScreenTexture(phone.current, screenImage.current, cutout);
+        disposeScreen = mountScreenTexture(
+          phone.current, screenImage.current, cutout, state.gl.capabilities.getMaxAnisotropy()
+        );
         if (disposeScreen) queueMicrotask(state.invalidate);
         return;
       }
@@ -184,7 +187,7 @@ function OpeningPhone({ mount, experience, stage }) {
       float={false}
       shadows
       frameloop="demand"
-      dpr={[1, 1.75]}
+      dpr={[1, 2]}
       resolution={589}
       rotation={[pitch * toRadians, yaw * toRadians, roll * toRadians]}
       onCreated={onCreated}
